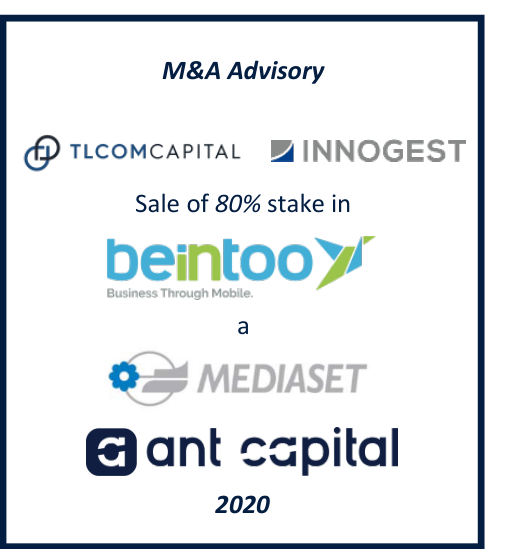
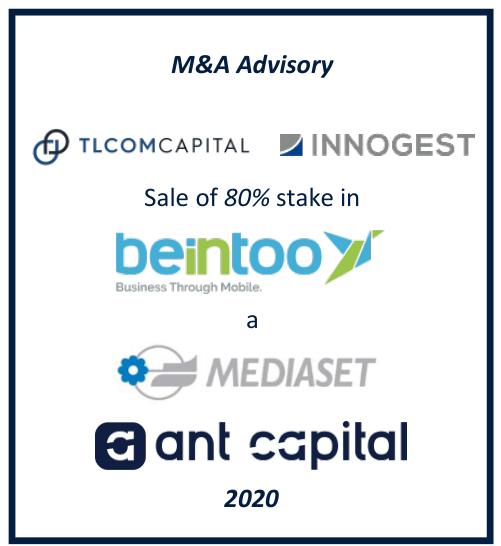
Recrop all 22 tombstones with exact PDF coordinates, uniform sizing, reduce card height to 210px

diff --git a/css/main.css b/css/main.css
@@ -647,7 +647,7 @@ section {
 
 .deal-img {
   width: 100%;
-  height: 260px;
+  height: 210px;
   object-fit: contain;
   background-color: #ffffff;
   display: block;
